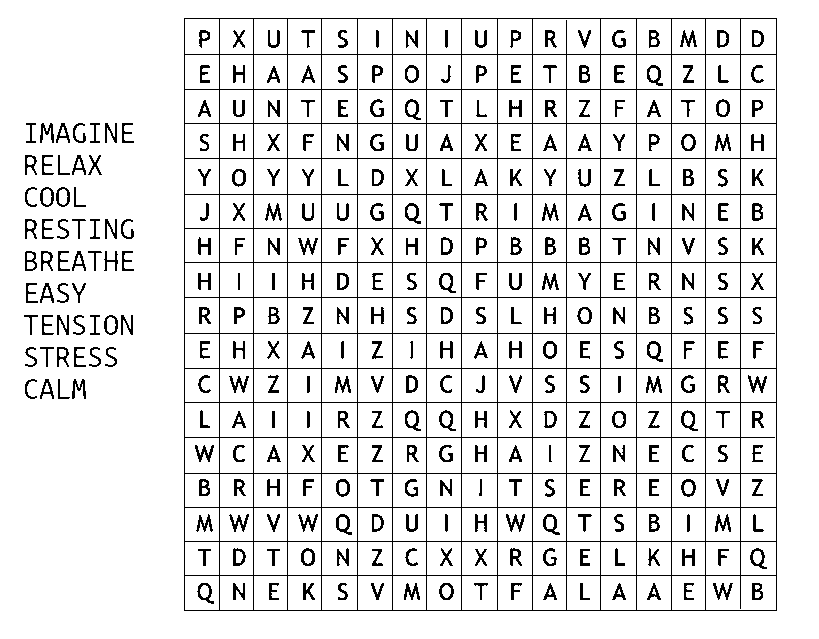
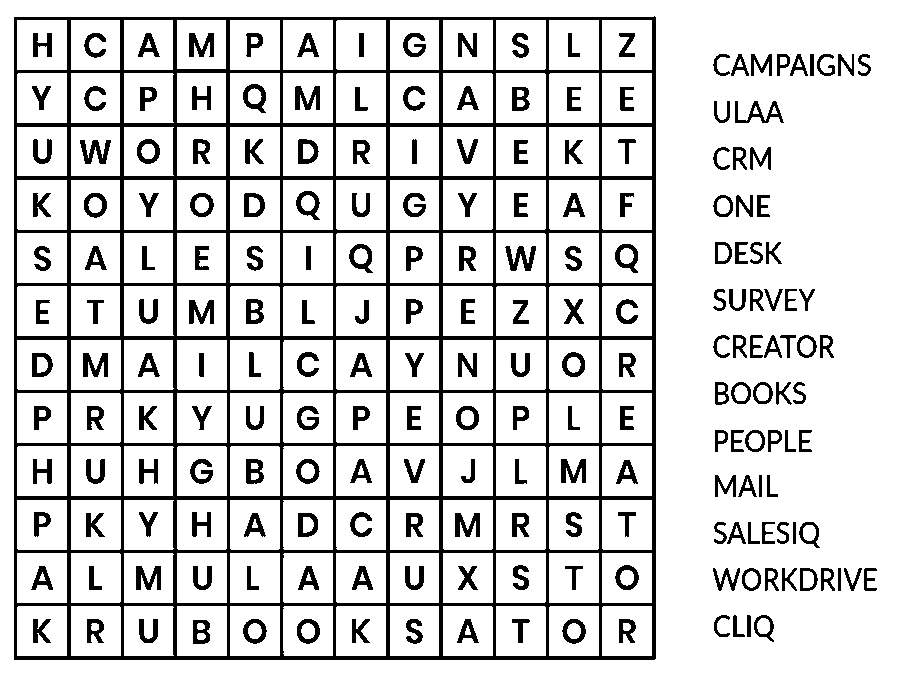
solver adaptation

Changed region(s): [[0.0, 0.0, 0.9463, 0.9812]]

diff --git a/solver/solver1.c b/solver/solver1.c
@@ -1,0 +1,301 @@
+#include "solver1.h"
+#include <stdio.h>
+#include <stdlib.h>
+#include <string.h>
+
+int count_lines(FILE* file)
+{
+	char buf[65536];
+	int counter = 0;
+	for(;;)
+	{
+		size_t res = fread(buf,1,65536,file);
+		if(ferror(file)) return -1;
+		size_t i;
+		for(i = 0; i < res; i++)
+			if(buf[i] == '\n')
+				counter++;
+		if(feof(file))
+			break;
+	}
+	return counter;
+}
+
+int* solver(char* file, char* word)
+{
+	int len = 0; // len of word
+	
+	for(int i = 0; word[i] != 0; i++) len++;
+
+	char* w = malloc(sizeof(char)*len+1);
+	w = strcpy(w, word);
+	// uppercase
+	for(int i = 0; i < len; i++)
+	{
+		if(word[i] >= 'a' && word[i] <= 'z')
+			w[i] = (char)(word[i] - 32);
+	}
+
+	int dim[2] = {0,0}; // 0 = r, 1 = c
+	dim[0] = 0;
+	dim[1] = 0;
+
+
+	// grid retrieve
+	
+	FILE* fp = fopen(file, "r");
+	if(fp == NULL) printf("fopen error");
+	
+	dim[0] = count_lines(fp);
+	if(dim[0] == -1) printf("count_lines error");
+
+	if(fseek(fp, 0, SEEK_SET) < 0) printf("fseek error");
+
+	size_t n = 120;
+	char* line = NULL;
+	dim[1] = getline(&line, &n , fp);
+	char** grid = malloc(sizeof(char)*dim[0]*dim[1]);
+	grid[0] = malloc(sizeof(char)*dim[1]+1);
+	grid[0] = strcpy(grid[0], line);
+	grid[0][strcspn(grid[0], "\r\n")] = '\0';
+	for(int i = 1; i < dim[0]; i++)
+	{
+		getline(&line, &n, fp);
+		grid[i] = malloc(sizeof(char)*dim[1]+1);
+		grid[i] = strcpy(grid[i], line);
+		grid[i][strcspn(grid[i], "\r\n")] = '\0';
+	}
+	fclose(fp);
+	
+	int* coords = malloc(sizeof(int) * 4);
+	for(int i = 0; i < 4; i++) coords[i] = 0;
+	// 0,1 = row,col index
+	// 2,3 = final row,col index
+	
+	// go through grid
+	short b = 0;
+	while(!b && coords[0] < dim[0] && coords[1] < dim[1])
+	{
+		if(grid[coords[0]][coords[1]] == w[0])
+		{
+			// [U,D,L,R]
+			short dir[4] = {0,0,0,0};
+			if(coords[0]+1>=len) dir[0] = 1;
+			if(dim[0]>=len+coords[0]) dir[1] = 1;
+			if(coords[1]+1>=len) dir[2] = 1;
+			if(dim[1]>=len+coords[1]) dir[3] = 1;
+			if(dir[0]) // up
+			{
+				if(dir[2])
+					b=search(4,coords,dim,grid,w,len);
+				if(!b && dir[3])
+					b=search(5,coords,dim,grid,w,len);
+				if(!b)
+					b=search(0,coords,dim,grid,w,len);
+			}
+			if(!b && dir[1]) // down
+			{
+				if(dir[2])
+					b=search(6,coords,dim,grid,w,len);
+				if(!b && dir[3])
+					b=search(7,coords,dim,grid,w,len);
+				if(!b)
+					b=search(1,coords,dim,grid,w,len);
+			}
+			if(!b && dir[2]) // left
+				b=search(2,coords,dim,grid,w,len);
+			if(!b && dir[3]) // right
+				b=search(3,coords,dim,grid,w,len);
+			
+			// SIGNATURE SEARCH
+		}
+		if(!b)
+		{
+			coords[1]++;
+			if(coords[1] == dim[1])
+			{
+				coords[1] = 0;
+				coords[0]++;
+			}
+			coords[2] = coords[0];
+			coords[3] = coords[1];
+		}
+	}
+	if(!b) printf("Not found\n");
+	else printf("(%i,%i)(%i,%i)\n",
+			coords[1], coords[0], coords[3], coords[2]);
+	
+	// free
+	free(line);
+	free(w);
+	for(int i = 0; i < dim[0]; i++)
+		free(grid[i]);
+	free(grid);
+	return coords;
+}
+
+
+short search(int dir, int* coords, int* dim, char** grid, char* word, int len)
+{
+	// dir => {0:up, down, left, right, uL, uR, dL, 7:dR}
+	
+	short valid = 1;
+	
+	int r = coords[0];
+	int c = coords[1];
+	int i = 0;
+
+	switch(dir)
+	{
+		case 0:
+			while(valid && r > 0 && i < len)
+			{
+				valid = valid && grid[r][c] == word[i];
+				i++;
+				if(i != len && valid)
+					r--;
+			}
+			break;
+		case 1:
+			while(valid && r < dim[0] && i < len)
+			{
+				valid = valid && grid[r][c] == word[i];
+				i++;
+				if(i != len && valid)
+					r++;
+			}
+			break;
+		case 2:
+			while(valid && i < len && c > 0)
+			{
+				valid = valid && grid[r][c] == word[i];
+				i++;
+				if(i != len && valid)
+					c--;
+			}
+			break;
+		case 3:
+			while(valid && i < len && c < dim[1])
+			{
+				valid = valid && grid[r][c] == word[i];
+				i++;
+				if(i != len && valid)
+					c++;
+			}
+			break;
+		case 4:
+			while(valid && i < len && r > 0 && c > 0)
+			{
+				valid = valid && grid[r][c] == word[i];
+				i++;
+				if(i != len && valid)
+				{
+					r--;
+					c--;
+				}
+			}
+			break;
+		case 5:
+			while(valid && i < len && r > 0 && c < dim[1])
+			{
+				valid = valid && grid[r][c] == word[i];
+				i++;
+				if(i != len && valid)
+				{
+					r--;
+					c++;
+				}
+			}
+			break;
+		case 6:
+			while(valid && i < len && r < dim[0] && c > 0)
+			{
+				valid = valid && grid[r][c] == word[i];
+				i++;
+				if(i != len && valid)
+				{
+					r++;
+					c--;
+				}
+			}
+			break;
+		case 7:
+			while(valid && i < len && r < dim[0] && c < dim[1])
+			{
+				valid = valid && grid[r][c] == word[i];
+				i++;
+				if(i != len && valid)
+				{
+					r++;
+					c++;
+				}
+			}
+			break;
+	}
+
+	if(valid)
+	{
+		coords[2] = r;
+		coords[3] = c;
+	}
+
+	return valid;
+}
+
+
+int main(int argc, char* argv[])
+{
+	if(argc != 3)
+	{
+		printf("incorrect input");
+		return 0;
+	}
+
+	int dimWord = 0; // nb of words
+
+  FILE* fpWord = fopen(argv[2], "r");
+	if(fpWord == NULL) printf("fopen error");
+	
+	dimWord = count_lines(fpWord);
+	if(dimWord == -1) printf("count_lines error");
+
+	if(fseek(fpWord, 0, SEEK_SET) < 0) printf("fseek error");
+
+	size_t nWord = 120;
+	char* lineWord = NULL;
+	char** listWord = malloc(sizeof(char*)*dimWord);
+	for(int i = 0; i < dimWord; i++)
+	{
+		getline(&lineWord, &nWord, fpWord);
+		listWord[i] = malloc(strlen(lineWord) + 1);
+		listWord[i] = strcpy(listWord[i], lineWord);
+		listWord[i][strcspn(listWord[i], "\r\n")] = '\0';
+	}
+	fclose(fpWord);
+
+	int** coords = malloc(sizeof(int)*4*dimWord);
+
+	for(int i = 0; i < dimWord; i++)
+	{
+		coords[i] = solver(argv[1], listWord[i]);
+	}
+
+	FILE *coordsFile = fopen("coords.txt", "w");
+  if (coordsFile == NULL) printf("coordsFile error");
+
+  for (int i = 0; i < dimWord; i++) {
+      fprintf(coordsFile, "%d,%d,%d,%d\n",
+        coords[i][1], coords[i][0], coords[i][3], coords[i][2]);
+  }
+
+  fclose(coordsFile);
+
+
+	// free
+  for(int i = 0; i < dimWord; i++)
+		free(coords[i]);
+	free(coords);
+
+//	solver(argv[1], argv[2]);
+	return 0;
+}

diff --git a/solver/solver1.h b/solver/solver1.h
@@ -1,0 +1,9 @@
+#ifndef SOLVER_H
+#define SOLVER_H
+
+
+int* solver(char* file, char* word);
+
+short search(int dir, int* coords, int* dim, char** grid, char* word, int len);
+
+#endif
